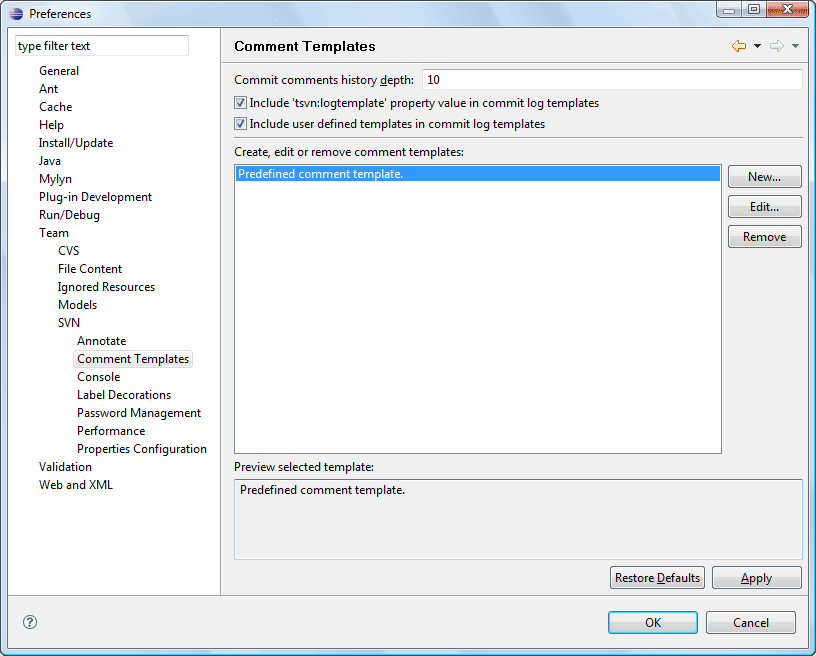
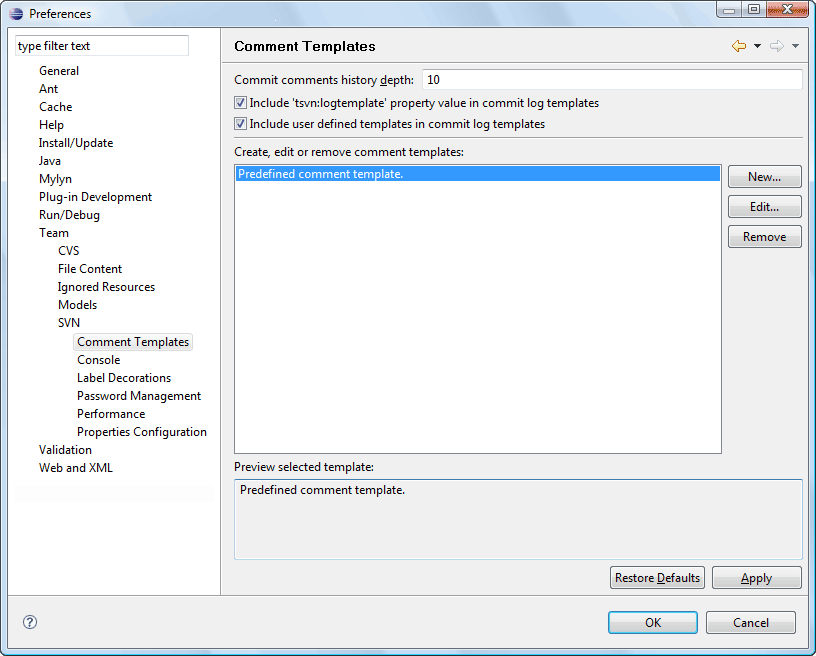
Update help according to plug-in changes (bug 225568) https://bugs.eclipse.org/bugs/show_bug.cgi?id=225568
The back slash is not supported in combined URLs (bug 228394)
https://bugs.eclipse.org/bugs/show_bug.cgi?id=228394

Changed region(s): [[0.0306, 0.4878, 0.2451, 0.7622]]

diff --git a/org.eclipse.team.svn.help/index.html b/org.eclipse.team.svn.help/index.html
@@ -47,7 +47,6 @@
 		<li><a href="prefs.html">Preferences</a>
 		<ul>
 		<li><a href="preferences/pref_svn.html">SVN</a></li>
-		<li><a href="preferences/pref_annotate.html">Annotate</a></li>
 		<li><a href="preferences/pref_comments.html">Comment Templates</a></li>
 		<li><a href="preferences/pref_console.html">Console</a></li>
 		<li><a href="preferences/pref_label_decors.html">Label Decorations</a></li>
@@ -72,7 +71,6 @@
 		<li><a href="teamSupport/merge_dialog.html">SVN Merge Dialog</a></li>
 		<li><a href="teamSupport/props_view.html">SVN Properties View</a></li>
 
-		<li><a href="teamSupport/annotation_view.html">SVN Annotation View</a></li>
 		<li><a href="teamSupport/svn_info.html">SVN Info</a></li>
 		<li><a href="teamSupport/svn_toolbar.html">SVN Toolbar</a></li>
 		<li><a href="teamSupport/svn_label_decor.html">SVN Label Decorations</a></li>

diff --git a/org.eclipse.team.svn.help/teamSupport.html b/org.eclipse.team.svn.help/teamSupport.html
@@ -114,8 +114,6 @@
 		<br/>
 		<a href="teamSupport/props_view.html">SVN Properties View</a>
 		<br/>
-		<a href="teamSupport/annotation_view.html">SVN Annotation View</a>
-		<br/>
 		<a href="teamSupport/svn_info.html">SVN Info</a>
 		<br/>
 		<a href="teamSupport/svn_toolbar.html">SVN Toolbar</a>

diff --git a/org.eclipse.team.svn.help/prefs.html b/org.eclipse.team.svn.help/prefs.html
@@ -31,8 +31,6 @@
 		<br/>
 		<a href="preferences/pref_svn.html">SVN</a>
 		<br/>
-		<a href="preferences/pref_annotate.html">Annotate</a>
-		<br/>
 		<a href="preferences/pref_comments.html">Comment Templates</a>
 		<br/>
 		<a href="preferences/pref_console.html">Console</a>

diff --git a/org.eclipse.team.svn.core/src/org/eclipse/team/svn/core/svnstorage/SVNRepositoryResource.java b/org.eclipse.team.svn.core/src/org/eclipse/team/svn/core/svnstorage/SVNRepositoryResource.java
@@ -22,6 +22,7 @@ import org.eclipse.team.svn.core.resource.IRepositoryFile;
 import org.eclipse.team.svn.core.resource.IRepositoryLocation;
 import org.eclipse.team.svn.core.resource.IRepositoryResource;
 import org.eclipse.team.svn.core.resource.IRepositoryRoot;
+import org.eclipse.team.svn.core.utility.SVNUtility;
 
 /**
  * SVN based representation of IRepositoryResource
@@ -122,7 +123,7 @@ public abstract class SVNRepositoryResource extends SVNRepositoryBase implements
 	}
 
 	public IRepositoryResource getParent() {
-		String parentUrl = this.getUrl();
+		String parentUrl = SVNUtility.normalizeURL(this.getUrl());
 		int idx = parentUrl.lastIndexOf('/');
 		if (idx != -1) {
 			parentUrl = parentUrl.substring(0, idx);
